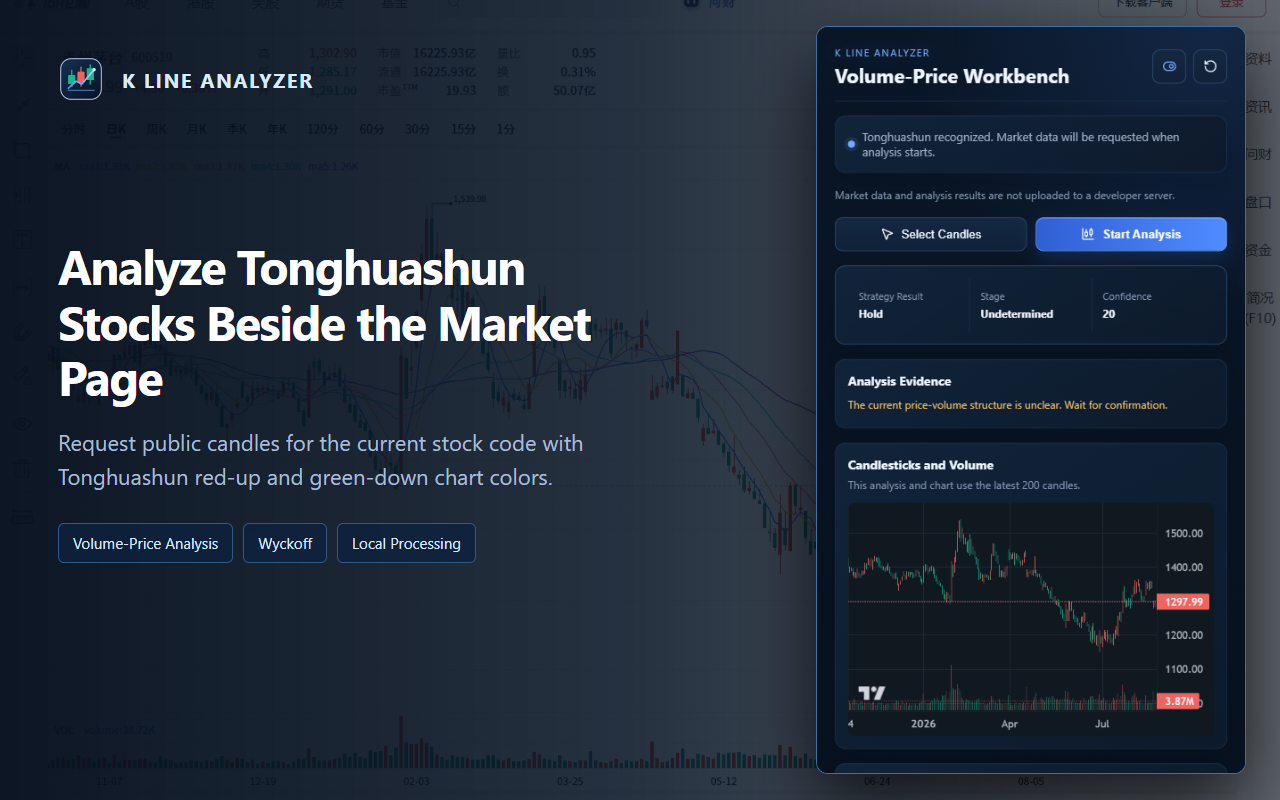
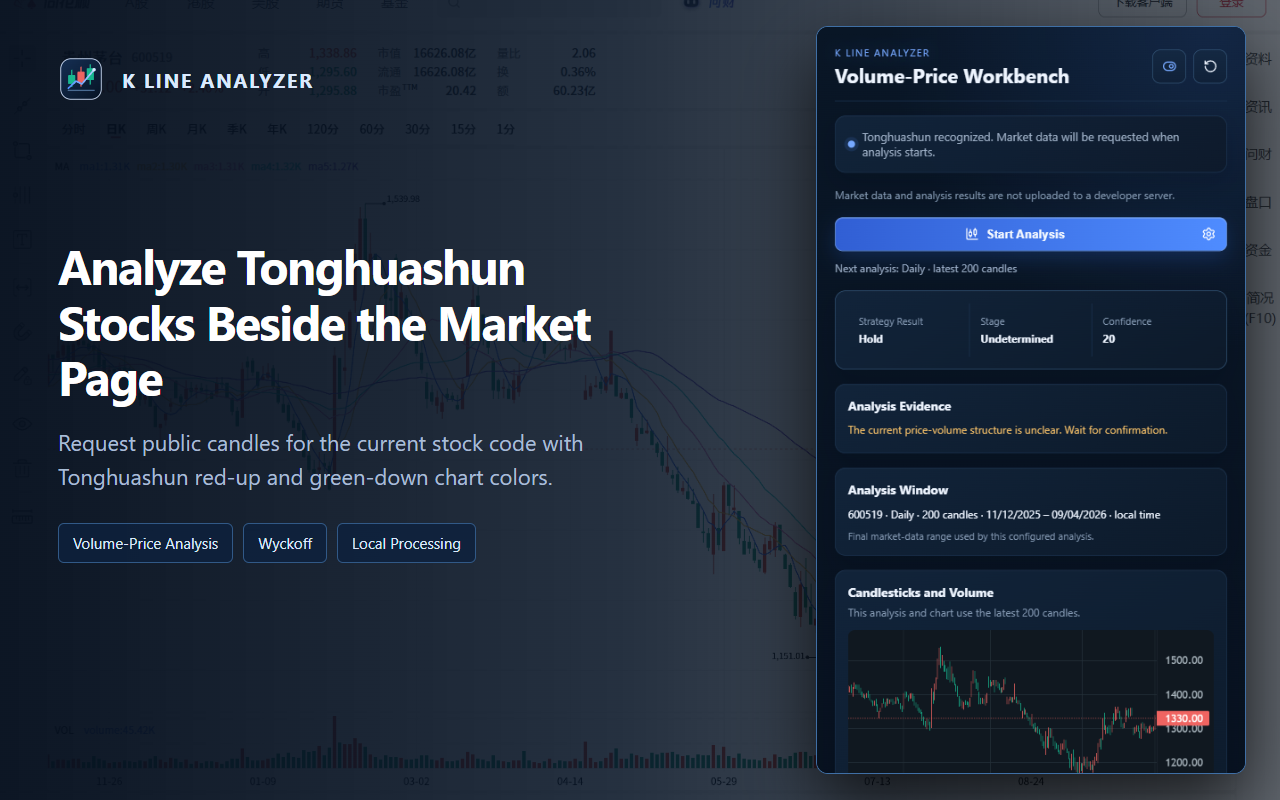
release: prepare Chrome Web Store v0.1.5

diff --git a/tests/release-assets.test.ts b/tests/release-assets.test.ts
@@ -46,8 +46,8 @@ describe('release manifests', () => {
     expect(production.default_locale).toBe('en');
     expect(development.name).toBe('__MSG_extension_name_dev__');
     expect(production.name).toBe('__MSG_extension_name__');
-    expect(development.permissions).toContain('scripting');
-    expect(production.permissions).toContain('scripting');
+    expect(development.permissions).toEqual(['storage', 'activeTab', 'sidePanel']);
+    expect(production.permissions).toEqual(['storage', 'activeTab', 'sidePanel']);
     for (const host of supportedPageHosts) {
       expect(development.host_permissions).toContain(host);
       expect(production.host_permissions).toContain(host);
@@ -128,9 +128,11 @@ describe('Chrome Web Store assets', () => {
     ['store-assets/en/screenshot-1-analysis-1280x800.png', 1280, 800],
     ['store-assets/en/screenshot-2-settings-1280x800.png', 1280, 800],
     ['store-assets/en/screenshot-3-tonghuashun-1280x800.png', 1280, 800],
+    ['store-assets/en/screenshot-4-quickstart-1280x800.png', 1280, 800],
     ['store-assets/zh-CN/screenshot-1-analysis-1280x800.png', 1280, 800],
     ['store-assets/zh-CN/screenshot-2-settings-1280x800.png', 1280, 800],
     ['store-assets/zh-CN/screenshot-3-tonghuashun-1280x800.png', 1280, 800],
+    ['store-assets/zh-CN/screenshot-4-quickstart-1280x800.png', 1280, 800],
   ])('provides correctly sized store artwork: %s', (file, width, height) => {
     expect(pngDimensions(file)).toEqual({ width, height });
   });

diff --git a/docs/spec/02_Chrome_Extension_Manifest_V3_权限与运行时设计方案.md b/docs/spec/02_Chrome_Extension_Manifest_V3_权限与运行时设计方案.md
@@ -22,11 +22,11 @@
 {
   "manifest_version": 3,
   "name": "K Line Analyzer",
-  "version": "0.1.3",
+  "version": "0.1.5",
   "description": "K 线量价分析与维科夫策略辅助工具",
   "action": { "default_popup": "popup.html", "default_title": "K Line Analyzer" },
   "background": { "service_worker": "background.js", "type": "module" },
-  "permissions": ["storage", "activeTab", "sidePanel", "scripting"],
+  "permissions": ["storage", "activeTab", "sidePanel"],
   "host_permissions": [
     "https://stockpage.10jqka.com.cn/*",
     "https://*.tradingview.com/*",
@@ -60,27 +60,27 @@
 }
 ```
 
-| 字段                        | 用途                       | 落地建议                       |
-| --------------------------- | -------------------------- | ------------------------------ |
-| `manifest_version`          | 使用 MV3                   | 固定为 3                       |
-| `background.service_worker` | 后台事件中心               | 使用 ES Module                 |
-| `permissions.storage`       | 保存配置与历史             | 必需                           |
-| `permissions.activeTab`     | 当前 Tab 受控访问          | 必需                           |
-| `permissions.sidePanel`     | 提供分析侧边面板           | 必需                           |
-| `permissions.scripting`     | 扩展更新后按需恢复页面桥接 | 仅在受支持站点接收端缺失时使用 |
-| `host_permissions`          | 主动请求匿名行情接口       | 仅允许 Binance、同花顺行情域名 |
-| `content_scripts.matches`   | 注入站点页面               | 仅允许当前支持的三个站点       |
+| 字段                        | 用途                 | 落地建议                       |
+| --------------------------- | -------------------- | ------------------------------ |
+| `manifest_version`          | 使用 MV3             | 固定为 3                       |
+| `background.service_worker` | 后台事件中心         | 使用 ES Module                 |
+| `permissions.storage`       | 保存配置与历史       | 必需                           |
+| `permissions.activeTab`     | 当前 Tab 受控访问    | 必需                           |
+| `permissions.sidePanel`     | 提供分析侧边面板     | 必需                           |
+| `host_permissions`          | 主动请求匿名行情接口 | 仅允许 Binance、同花顺行情域名 |
+| `content_scripts.matches`   | 注入站点页面         | 仅允许当前支持的三个站点       |
 
 16、32、48、128 px PNG 图标由两份清单共同声明，其中 128 px 图标必须进入发布 ZIP。商店截图和宣传图不进入扩展 ZIP，统一保存在 `store-assets/` 供 Developer Dashboard 上传。
 
 ## 4. 权限设计
 
-| 权限        | 是否必需 | 使用场景                      | 风险         | 控制措施                       |
-| ----------- | -------- | ----------------------------- | ------------ | ------------------------------ |
-| `storage`   | 是       | 用户配置、历史记录、调试日志  | 本地数据泄露 | 不存敏感身份信息，提供清理入口 |
-| `activeTab` | 是       | 用户主动点击后访问当前页面    | 越权访问页面 | 只在用户交互后触发             |
-| `sidePanel` | 是       | 使用 Chrome 原生 Side Panel   | 兼容性约束   | 仅承载本地分析界面             |
-| `scripting` | 是       | 扩展更新后恢复 Content Script | 动态注入风险 | 仅限清单列出的站点及包内脚本   |
+| 权限        | 是否必需 | 使用场景                     | 风险         | 控制措施                       |
+| ----------- | -------- | ---------------------------- | ------------ | ------------------------------ |
+| `storage`   | 是       | 用户配置、历史记录、调试日志 | 本地数据泄露 | 不存敏感身份信息，提供清理入口 |
+| `activeTab` | 是       | 用户主动点击后访问当前页面   | 越权访问页面 | 只在用户交互后触发             |
+| `sidePanel` | 是       | 使用 Chrome 原生 Side Panel  | 兼容性约束   | 仅承载本地分析界面             |
+
+v0.1.5 不申请 `scripting`：框选路径已关闭，运行产物无动态脚本注入调用。行情页依赖清单中的静态 Content Script；扩展更新后需刷新已打开的行情页。保留的框选源码不代表当前发布功能或权限需求。
 
 ## 5. 运行上下文设计
 

diff --git a/README.md b/README.md
@@ -11,9 +11,17 @@ Use the extension primarily on Binance and Tonghuashun market pages:
 - **Binance example:** [BTC/USDT Spot](https://www.binance.com/en/trade/BTC_USDT?type=spot), for crypto candlestick and volume analysis.
 - **Tonghuashun example:** [Kweichow Moutai 600519](https://stockpage.10jqka.com.cn/600519/), for mainland China A-share analysis with red-up and green-down market colors.
 
-Open and refresh a supported market page, click the K Line Analyzer toolbar icon, choose **Open Side Panel**, and select **Start Analysis**. Confirm the period and candle count to request public market data and generate the result and chart locally. Chart selection is temporarily disabled in v0.1.4.
+Open and refresh a supported market page, click the K Line Analyzer toolbar icon, choose **Open Side Panel**, and select **Start Analysis**. Confirm the period and candle count to request public market data and generate the result and chart locally. Chart selection is temporarily disabled in v0.1.5.
 
 TradingView remains a compatibility path. It only analyzes market data already streamed by the current page and passively captured by the extension. Availability depends on the current chart data; Binance or Tonghuashun is recommended for normal use.
+
+## v0.1.5 Update and Quick Start
+
+This release removes the unused `scripting` permission and adds a build gate to keep it out of shipped packages. Supported pages load manifest-declared content scripts. Refresh already-open market pages after updating. Chart selection and screenshot capture remain disabled.
+
+![Three steps to your first local market analysis](./store-assets/en/screenshot-4-quickstart-1280x800.png)
+
+Use settings to choose the period and candle count. **Apply Settings** updates the next-analysis configuration; click **Start Analysis** to run it. See the [User Guide](./docs/USER_GUIDE.md) for installation and troubleshooting.
 
 ## Features
 
@@ -63,7 +71,7 @@ npm run package
 
 - `test:e2e:locale` loads the real extension against Binance in English and Simplified Chinese Chrome environments.
 - `test:e2e:release` validates the English Binance path and Simplified Chinese Tonghuashun path.
-- Real Side Panel E2E covers the Popup user gesture, active Tab binding, localized UI, 200/64 candle analysis, 30-minute/1-hour/4-hour periods, selected-image date matching, insufficient selections, non-empty Canvas output, responsive recovery, and reset behavior.
+- Real Side Panel E2E covers the Popup user gesture, active Tab binding, localized UI, minimal runtime permissions, 200/64 candle analysis, 30-minute/1-hour/4-hour periods, invalid candle-count validation, non-empty Canvas output, responsive recovery, and reset behavior. Disabled selection and screenshot functionality is not presented as a release capability.
 - `npm run package` runs the complete release gate and creates the versioned ZIP and SHA-256 checksum.
 
 ## Chrome Web Store Materials
@@ -72,8 +80,8 @@ npm run package
 - `docs/WEB_STORE_LISTING.md`: default English store listing, permissions, data disclosures, and submission checklist.
 - `docs/WEB_STORE_LISTING.zh-CN.md`: matching Simplified Chinese store listing.
 - `assets/icons/`: 16, 32, 48, and 128 px Manifest icons plus the editable SVG source.
-- `store-assets/en/`: English localized screenshots.
-- `store-assets/zh-CN/`: Simplified Chinese localized screenshots.
+- `store-assets/en/`: four English detail images covering Binance analysis, the analysis window, Tonghuashun, and quick start.
+- `store-assets/zh-CN/`: four matching Simplified Chinese detail images.
 - `store-assets/promo-small-440x280.png`: global text-free promotional tile.
 
 Run `npm run assets:store` to rebuild icons, execute the required locale/site E2E matrix, and regenerate localized Chrome Web Store screenshots.

diff --git a/PRIVACY.md b/PRIVACY.md
@@ -16,14 +16,14 @@ K Line Analyzer has one purpose: to provide local candlestick, volume-price, and
 - 当前受支持页面的域名、URL、页面标题和由 URL 表示的市场标的，用于识别 Binance、TradingView 或同花顺行情页并将分析绑定到正确的标签页。
 - 公开市场行情数据，包括时间、开盘价、最高价、最低价、收盘价和成交量（OHLCV）。
 - 用户在扩展中选择的分析周期、K 线数量和其他策略设置。
-- v0.1.4 暂停框选功能，不读取选区图像、截取图表图片或运行选区图像识别。
+- v0.1.5 暂停框选功能，不读取选区图像、截取图表图片或运行选区图像识别。
 
 The extension handles only the following data for that purpose:
 
 - The supported page's domain, URL, title, and market symbol represented in the URL, to recognize Binance, TradingView, or Tonghuashun pages and bind analysis to the correct tab.
 - Public market data, including timestamp, open, high, low, close, and volume (OHLCV).
 - Analysis period, candle count, and other strategy settings selected by the user.
-- Chart selection is disabled in v0.1.4: no selected-area images are read, captured, or recognized.
+- Chart selection is disabled in v0.1.5: no selected-area images are read, captured, or recognized.
 
 ## 各站点用途 / Supported-site use
 

diff --git a/docs/USER_GUIDE.md b/docs/USER_GUIDE.md
@@ -27,7 +27,7 @@ Refresh the market page after installing or reloading the extension.
 5. The extension fetches the latest configured market window. The loading view can safely cancel the operation.
 6. Review the strategy result, stage, confidence, evidence, and the final symbol, period, candle count, and start/end times shown under **Analysis Window**.
 
-Chart selection is temporarily disabled in v0.1.4; there is no selection overlay, screenshot capture, or automatic selection analysis. Use the settings button to change the configured window.
+Chart selection is temporarily disabled in v0.1.5; there is no selection overlay, screenshot capture, or automatic selection analysis. Use the settings button to change the configured window.
 
 Settings support Tab / Shift+Tab navigation, Escape to close, and Enter to submit. **Apply Settings** updates the next analysis without running it. A failed save keeps the dialog and your draft open for retry. Remembering the configuration saves both the period and candle count and skips this dialog on future runs.
 

diff --git a/docs/USER_GUIDE.zh-CN.md b/docs/USER_GUIDE.zh-CN.md
@@ -27,7 +27,7 @@
 5. 插件获取最近的指定行情区间；加载期间可以安全取消。
 6. 查看策略结论、阶段、置信度、分析依据，以及“本次分析区间”中最终用于计算的标的、周期、根数和起止时间。
 
-v0.1.4 暂时屏蔽框选入口，不创建框选遮罩、不截取选区图片，也不自动运行框选分析。可通过设置按钮更改分析窗口。
+v0.1.5 暂时屏蔽框选入口，不创建框选遮罩、不截取选区图片，也不自动运行框选分析。可通过设置按钮更改分析窗口。
 
 设置支持 Tab / Shift+Tab 切换焦点、Esc 关闭、Enter 提交。“应用设置”只更新下次分析的参数，不立即运行。保存失败时保留弹窗和草稿，可直接重试。勾选记住配置会保存周期与根数，之后开始分析不再弹窗。
 

diff --git a/docs/FAQ.md b/docs/FAQ.md
@@ -20,7 +20,7 @@ No. Market analysis runs locally and is not uploaded to a developer server. Publ
 
 ## Where is chart selection?
 
-Chart selection is temporarily disabled in v0.1.4, including old selection messages and automatic analysis. Choose Start Analysis and configure the period and candle count instead.
+Chart selection is temporarily disabled in v0.1.5, including old selection messages and automatic analysis. Choose Start Analysis and configure the period and candle count instead.
 
 ## Why are TradingView settings locked?
 

diff --git a/docs/FAQ.zh-CN.md b/docs/FAQ.zh-CN.md
@@ -20,7 +20,7 @@
 
 ## 框选入口在哪里？
 
-v0.1.4 暂时屏蔽框选入口，包括旧选区消息及自动分析。请点击“开始分析”并设置周期和 K 线数量。
+v0.1.5 暂时屏蔽框选入口，包括旧选区消息及自动分析。请点击“开始分析”并设置周期和 K 线数量。
 
 ## 为什么 TradingView 的策略设置被锁定？
 

diff --git a/docs/E2E_TEST_PLAN.md b/docs/E2E_TEST_PLAN.md
@@ -1,6 +1,6 @@
 # Chrome K线分析器 E2E 测试与 Agent 真实站点冒烟方案
 
-## v0.1.4 当前发布门禁
+## v0.1.5 当前发布门禁
 
 以下为当前实现的门禁；后文保留完整测试规划，不表示所有规划用例已自动化。
 
